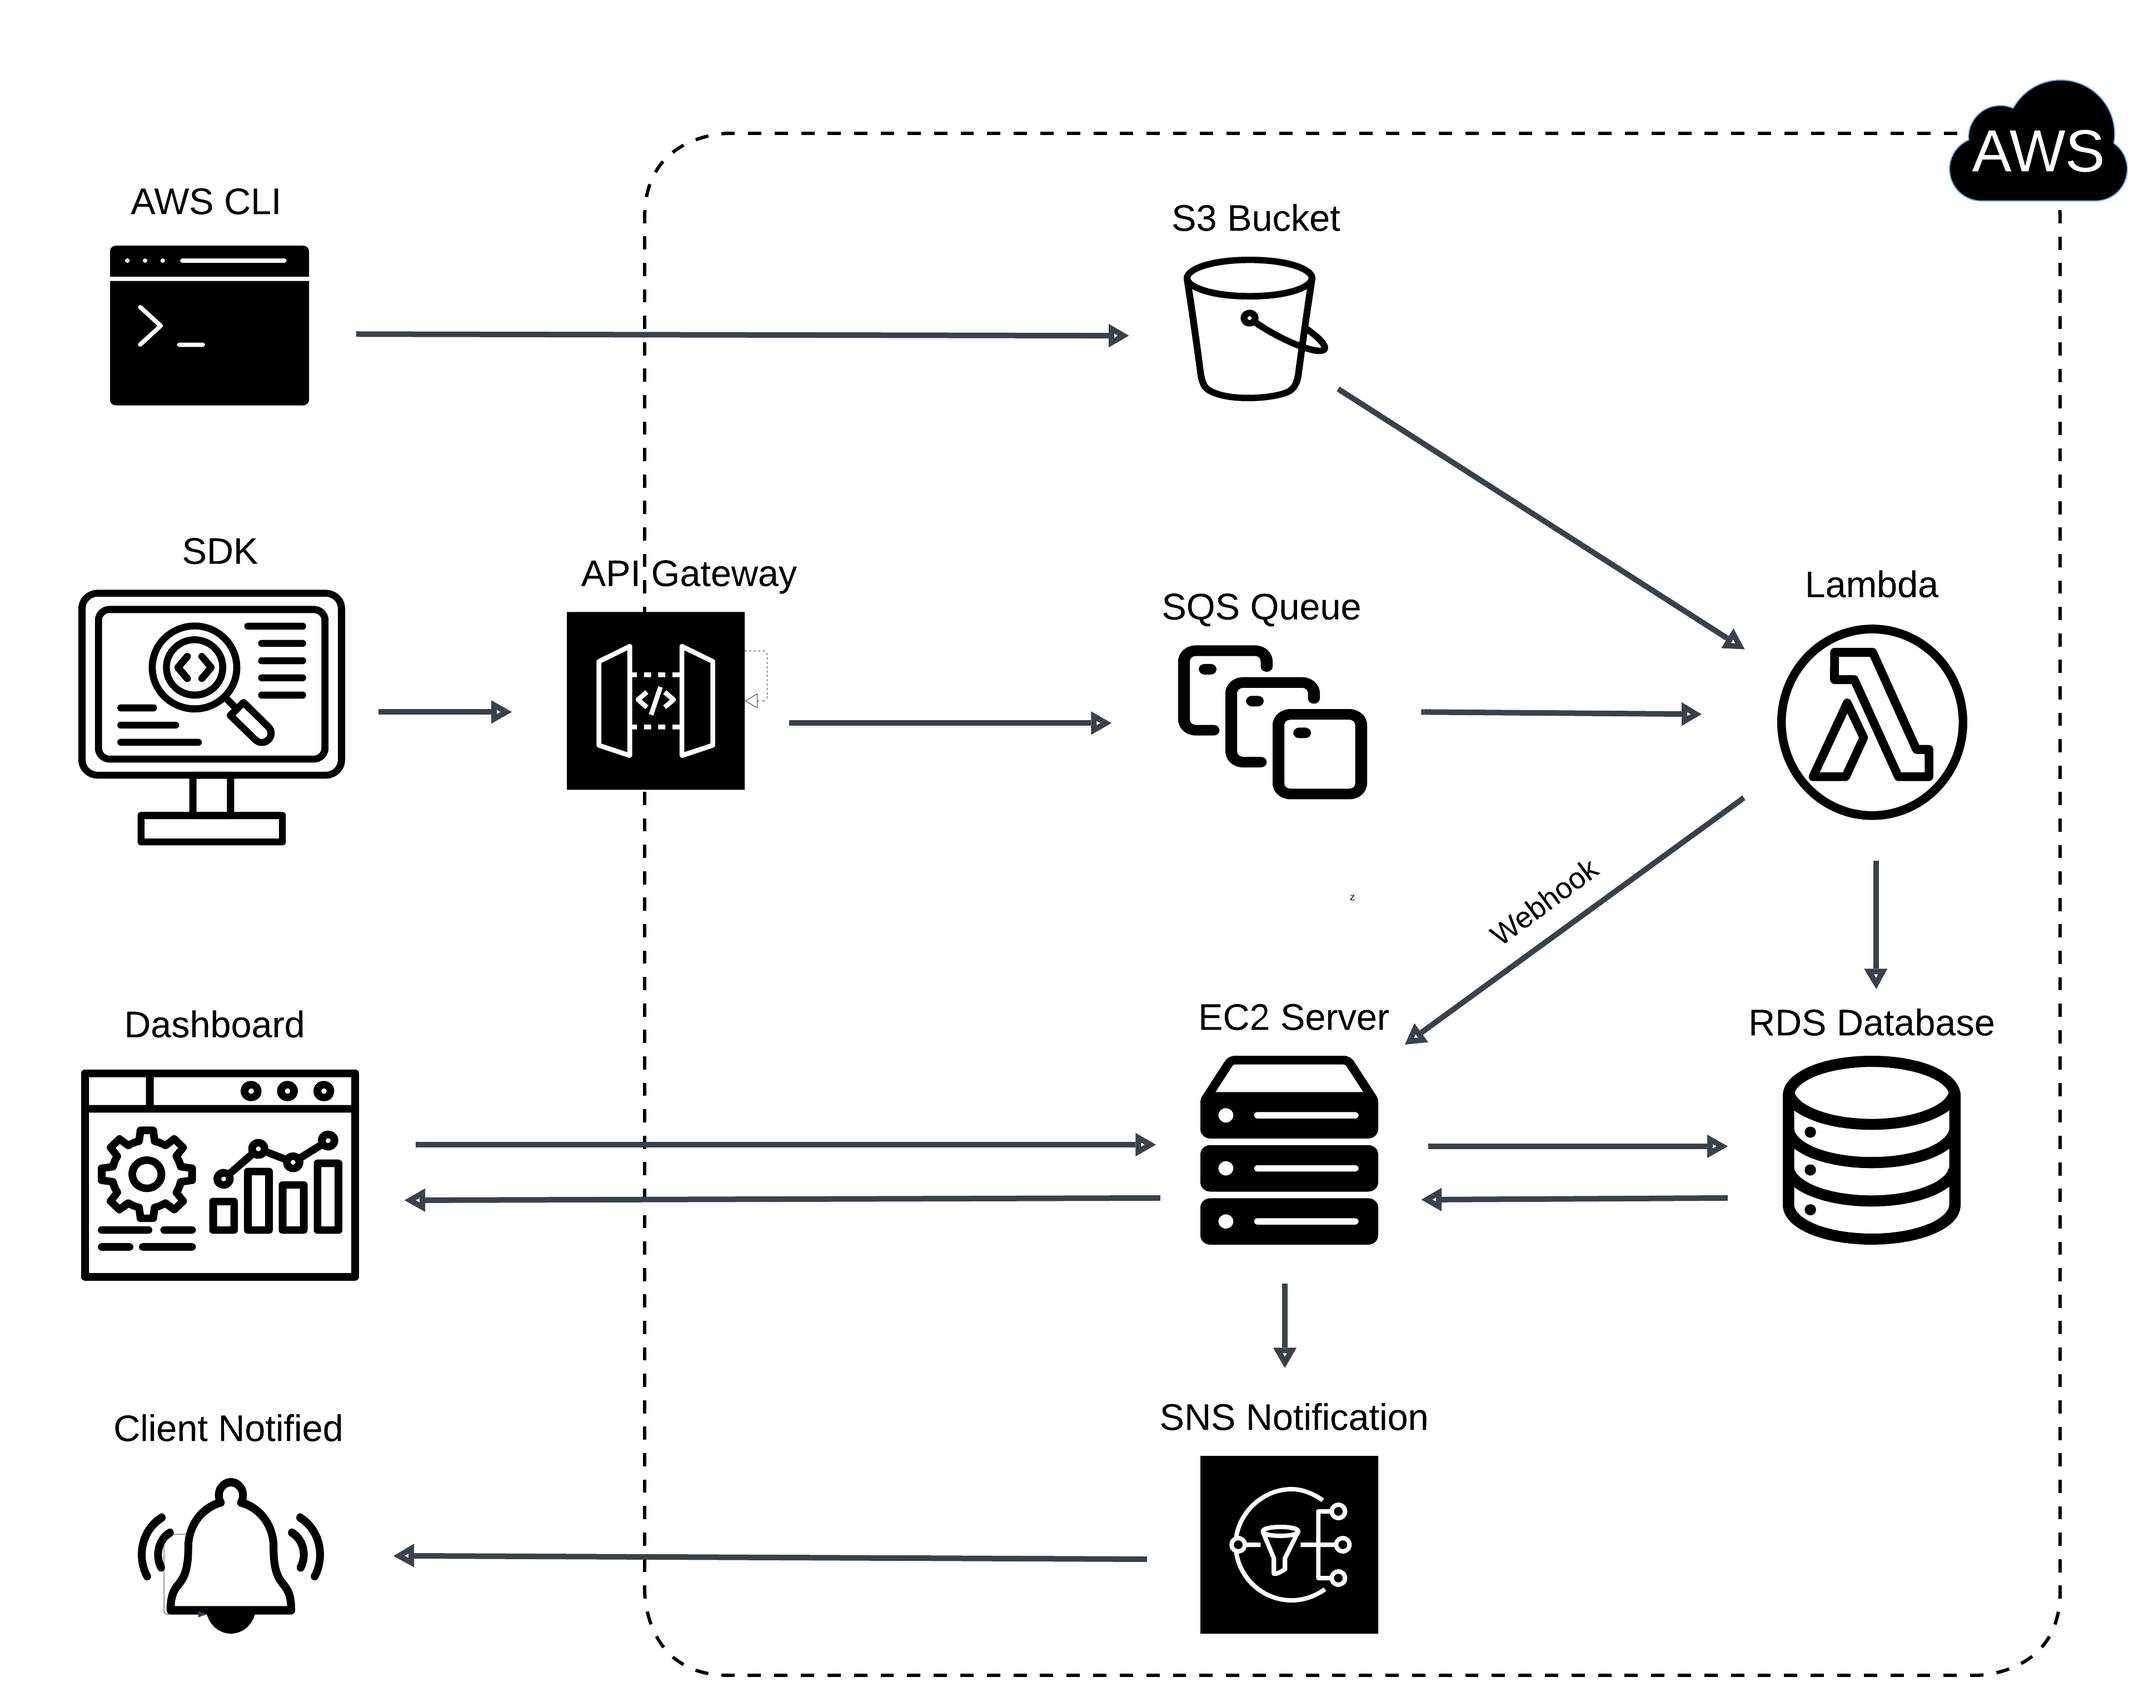
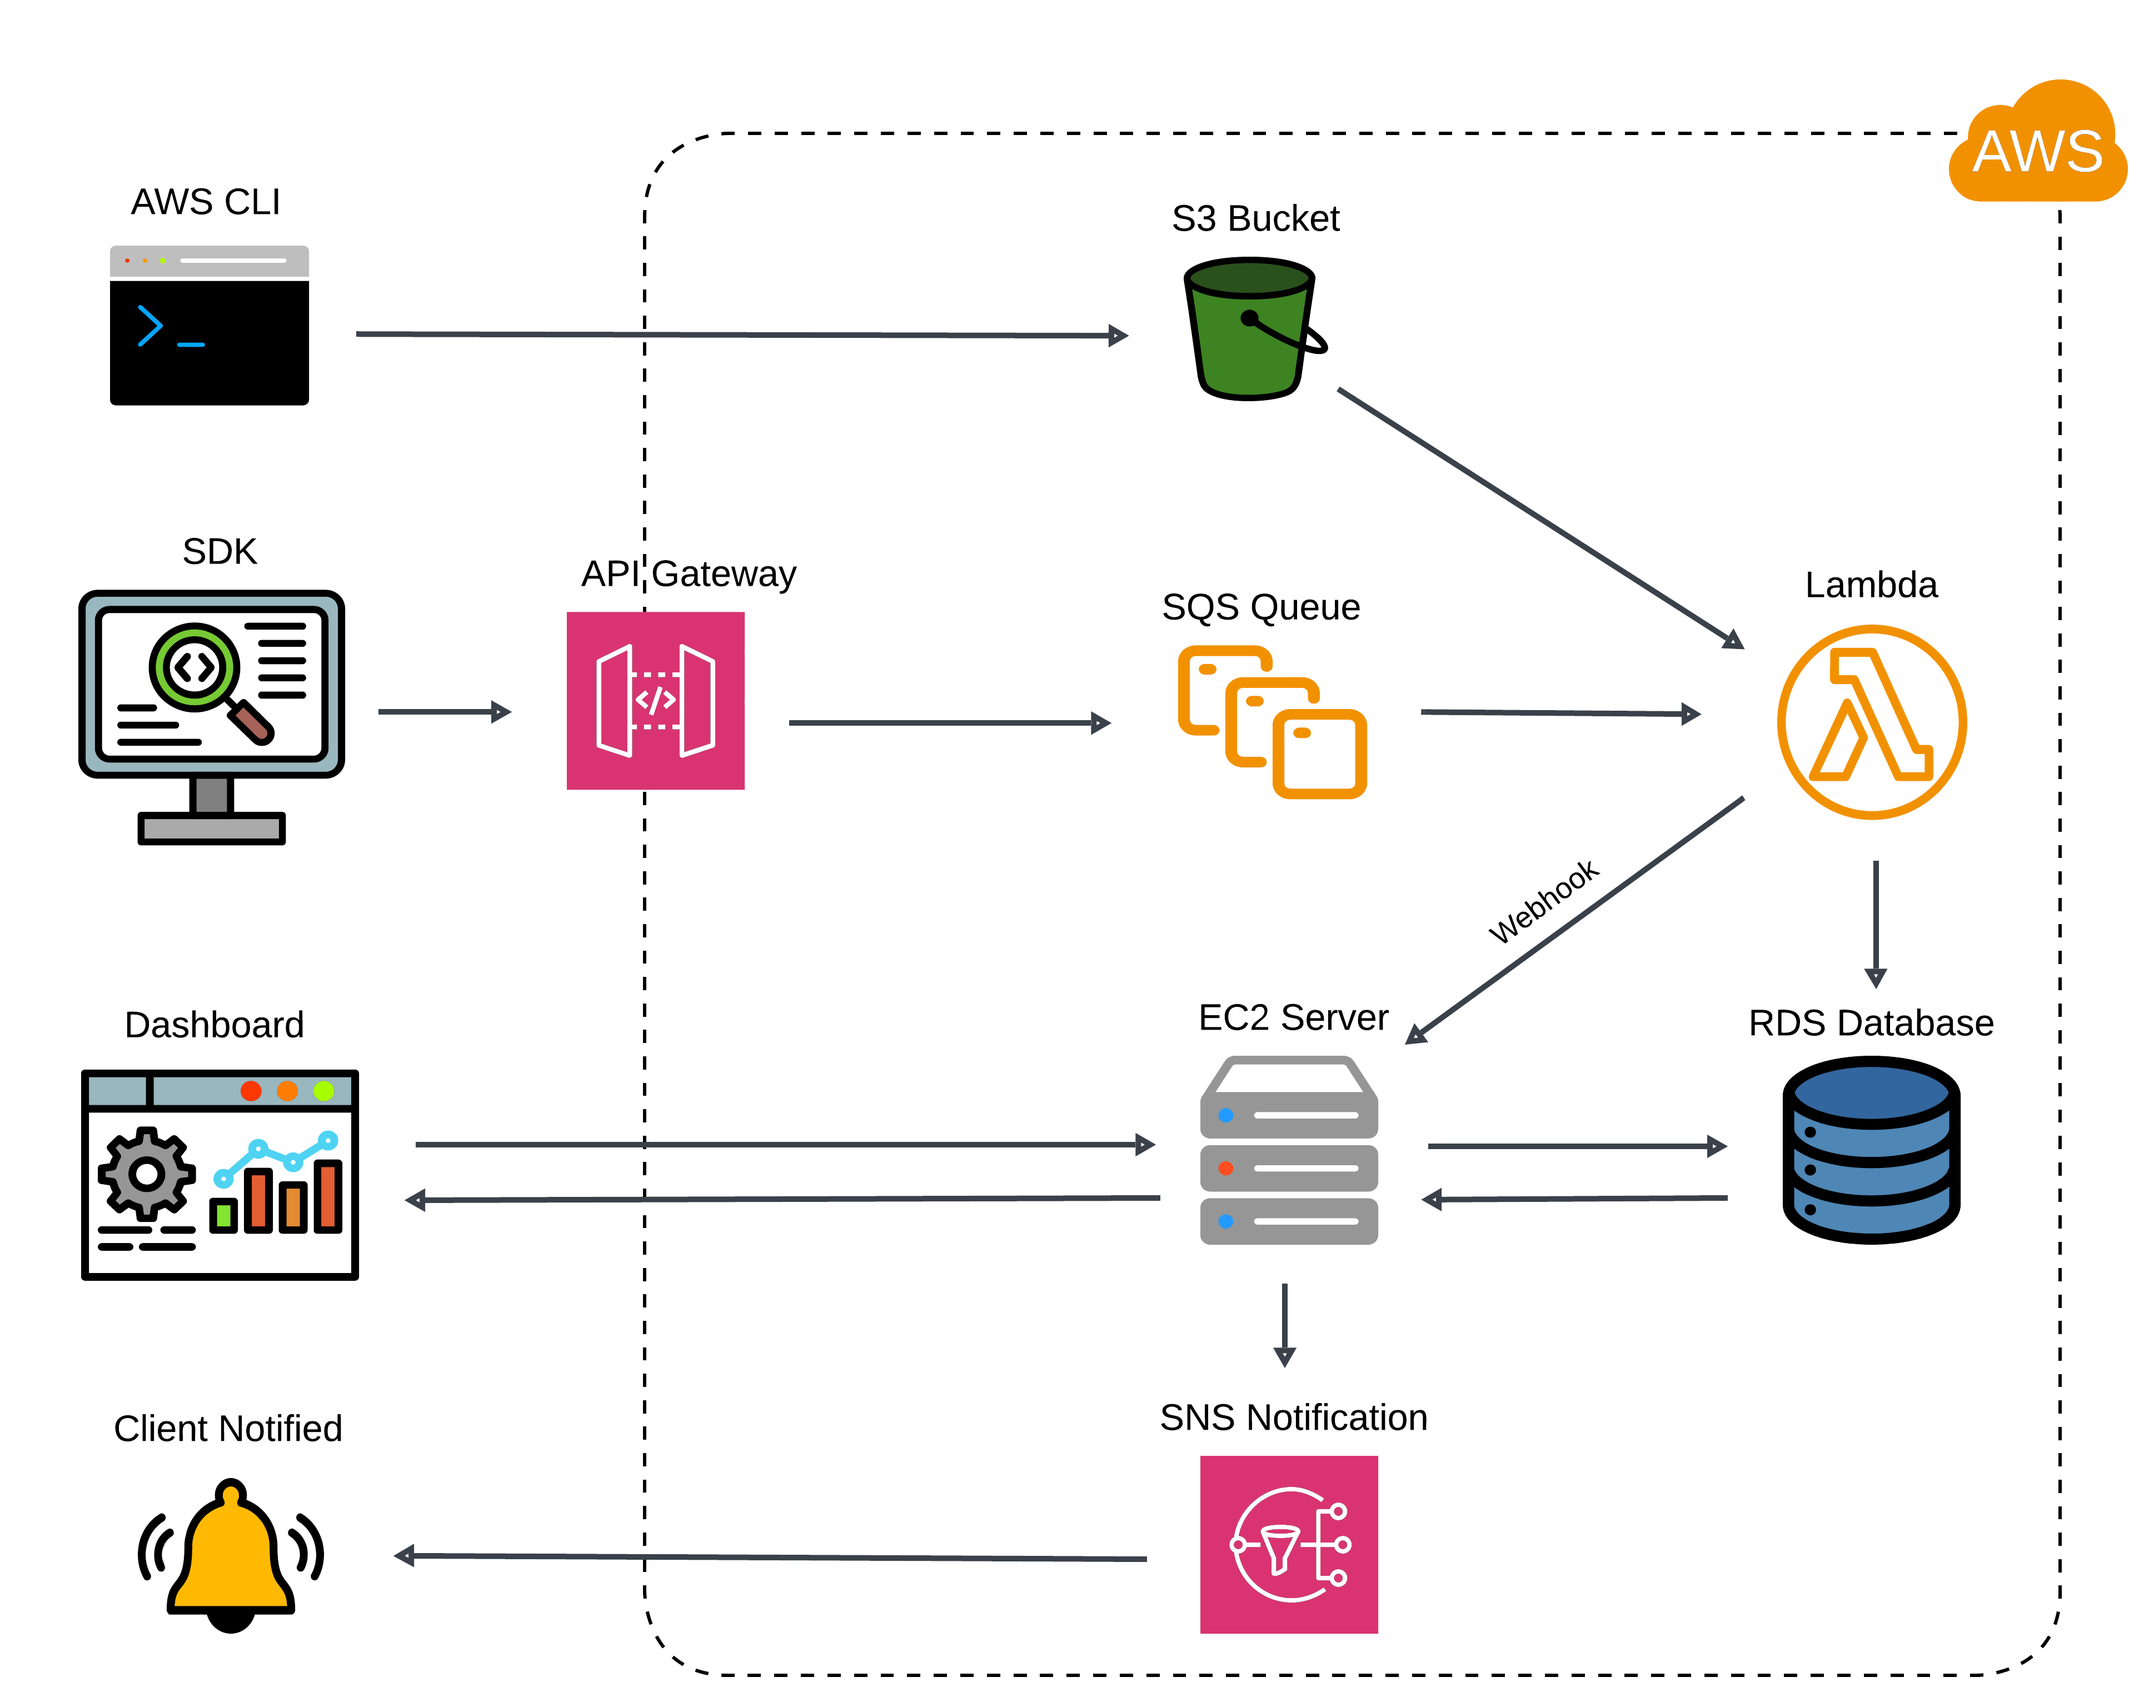
style: updated diagrams on homepage to add color and relabel platforms diagram

diff --git a/src/components/Homepage/FeatureBlock.tsx b/src/components/Homepage/FeatureBlock.tsx
@@ -113,6 +113,7 @@ const FeatureBlock: React.FC<FeatureBlockProps> = ({
             w={imageWidth}
             boxShadow={boxShadow}
             order={{ base: 0, md: 0 }}
+            background="white"
           />
           {/* Text */}
           <Box
@@ -205,6 +206,7 @@ const FeatureBlock: React.FC<FeatureBlockProps> = ({
               w="100%"
               h="100%"
               boxShadow="3px 3px 3px lightgray"
+              background="white"
             />
           </Box>
         </Stack>

diff --git a/src/components/Homepage/Features.tsx b/src/components/Homepage/Features.tsx
@@ -20,7 +20,7 @@ function Features() {
         orientation="right"
         heading="Notifications"
         text="Recieve alerts when errors occur, enabling timely response to emerging issues"
-        imageSrc="../../img/homepage/SNS.png"
+        imageSrc="../../img/homepage/sns-notifications.png"
         imageWidth="50%"
         background="gray.100"
         boxShadow="3px 3px 3px lightgray"
